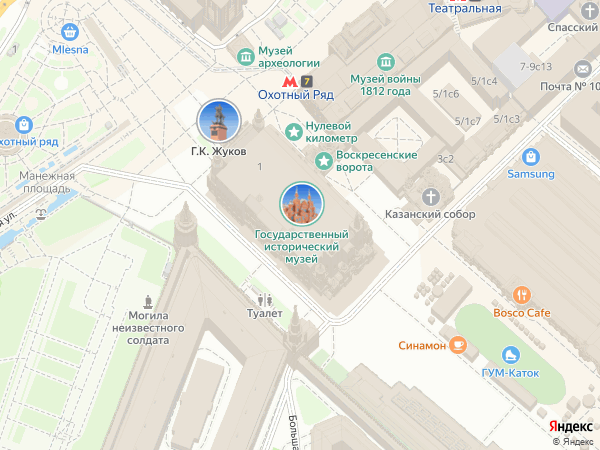
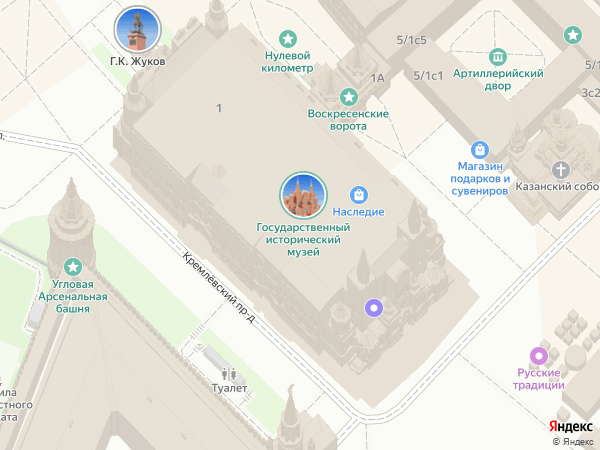
Task 2

diff --git a/main.py b/main.py
@@ -1,5 +1,6 @@
 from PyQt6 import uic, QtWidgets
 from PyQt6.QtGui import QPixmap
+from PyQt6.QtCore import Qt
 import sys
 
 from ApiWorker import ApiWorker
@@ -18,9 +19,20 @@ class MapApp(QtWidgets.QMainWindow):
         self.image_path = "map.png"
 
         self.api_worker.find_static_map_info(self.coordinates)
-        self.find_location()
+        self.set_image()
 
-    def find_location(self):
+    def keyPressEvent(self, event):
+        zoom = self.api_worker.get_zoom()
+
+        key = event.key()
+        if key == Qt.Key.Key_PageUp or key == Qt.Key.Key_W and all([0.001 < value / 2 < 1 for value in zoom]):
+            self.api_worker.set_zoom([value / 2 for value in zoom])
+        elif key == Qt.Key.Key_Down or key == Qt.Key.Key_S and all([0.001 < value * 2 < 1 for value in zoom]):
+            self.api_worker.set_zoom([value * 2 for value in zoom])
+
+        self.set_image()
+
+    def set_image(self):
         self.api_worker.load_static_map_info()
         pixmap = QPixmap(self.image_path)
         if not pixmap.isNull():
